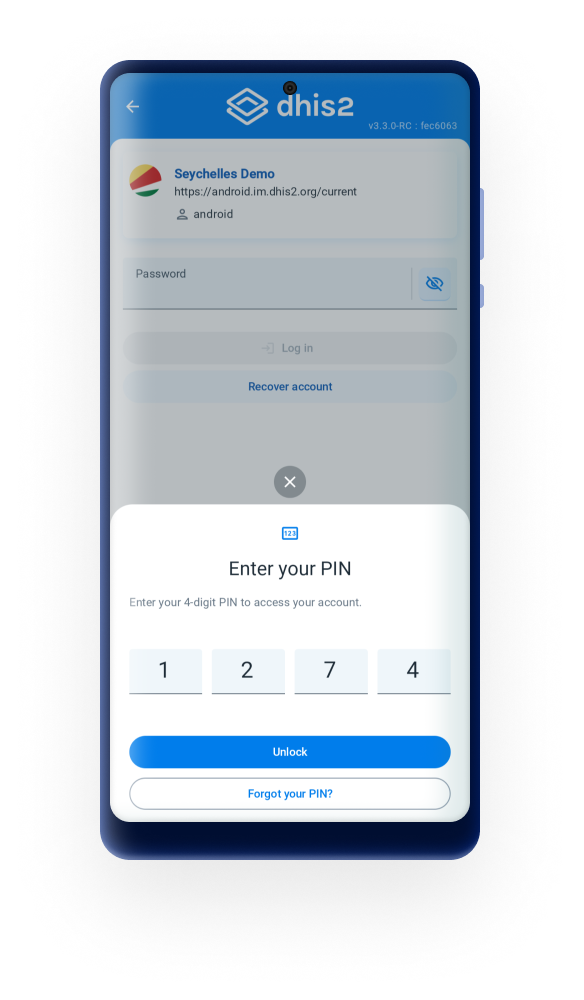
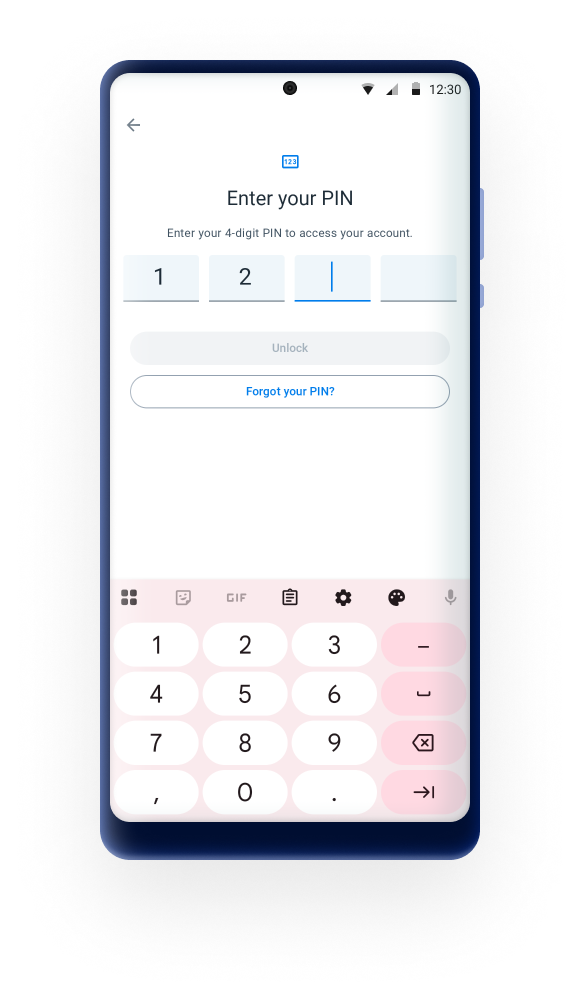
3.4 updates
- screenshots update
- sync confing new periods
- markdown section

diff --git a/content/capture-app/settings.md b/content/capture-app/settings.md
@@ -1,17 +1,24 @@
-# Settings (Improved 3.3.0) { #capture_app_settings }
+# Settings { #capture_app_settings }
 
 >In version 3.3.0 the settings menu was redesigned to provide a cleaner structure and improved navigation experience. This update aligns the screen with the design changes introduced in previous versions and prepares the menu to host future configuration options, such as 2FA-related settings.
 
 ![Settings window](resources/images/capture-app-image340.png){width=25%}
 
-Sync data
-:	User is able to choose from a drop-down list if the data entered in the app is uploaded to the server manually or scheduled every 15 min, 1 hour or 1 Day. By default the app will sync every 24h. This kind of Syncing includes new and updated events and TEI’s.
+## Sync data { #capture_app_settings_sync_data }
 
-Sync configuration (also known as sync metadata)
-:	User is able to choose from a drop-down list  if the data entered in the app is uploaded to the server manually or scheduled every day or week. By default the app will sync every 24h.  This sync will update changes in programs or configurations in web.
+Any user is able to choose from a drop-down list if the data entered in the app is uploaded to the server manually or scheduled every 15 min, 1 hour or 1 Day. By default the app will sync every 24h. This kind of Syncing includes new and updated events and TEI’s.
 
-Sync parameters
-: 	These parameters allow the user to specify the maximum number of TEI’s and events that can be stored in the local device. The user can also specify if limits apply per organisation unit or in total. Values can be set to default by clicking on “Reset to default”.
+## Sync configuration/metadata (Improved in 3.4) { #capture_app_settings_sync_metadata }
+
+Any User is able to choose from a drop-down list  if the data entered in the app is uploaded to the server manually or scheduled every day or week. By default the app will sync every 24h.  This sync will update changes in programs or configurations in web.
+
+From 3.4, in addition to existing intervals, automatic metadata sync can now run every 6 or 12 hours, allowing for more timely updates and better alignment with data sync behavior.
+
+![](resources/images/capture-app-image366.png){width=25%}
+
+## Sync parameters { #capture_app_settings_sync_parameters }
+
+These parameters allow the user to specify the maximum number of TEI’s and events that can be stored in the local device. The user can also specify if limits apply per organisation unit or in total. Values can be set to default by clicking on “Reset to default”.
 
 > **Note** 
 >
@@ -19,14 +26,17 @@ Sync parameters
 >
 >
 
-Reserved values
-:	This will specify the number of reserved Id's available in your device and will allow you to refill them.
+## Reserved values { #capture_app_settings_reserved_values }
 
-Open sync errors log
-:	The sync error log gives details about the error and is prepared to be shared with admins.
+This will specify the number of reserved Id's available in your device and will allow you to refill them.
 
-Export database
-:   Users are now be able to export the local database and share it with an admin, who will be able to import it for troubleshooting, being able to replicate the exact environment (database, device, configuration). The exported database is encrypted and the administrator will require the user credentials to be able to access the database
+## Open sync errors log { #capture_app_settings_errors_log }
+
+The sync error log gives details about the error and is prepared to be shared with admins.
+
+## Export database { #capture_app_settings_export_db }
+
+Users are able to export the local database and share it with an admin, who will be able to import it for troubleshooting, being able to replicate the exact environment (database, device, configuration). The exported database is encrypted and the administrator will require the user credentials to be able to access the database
 
 ![](resources/images/capture-app-image341.png){ width=25%}
 
@@ -34,7 +44,7 @@ The import button can be found by tapping on the tree dots menu at the login scr
 
 ![](resources/images/capture-app-image338.png){ width=25%}
 
-Delete local data
+## Delete local data { #capture_app_settings_delete_localdb }
 :	This action will delete local data without having to log out.
 
 > **Warning** 
@@ -43,7 +53,7 @@ Delete local data
 >
 >
 
-Reset app data & configuration
+## Reset app data & configuration { #capture_app_settings_sync_metadata }
 :	This action will log out the user and delete all data and metadata, this means user and server information is also deleted. It is similar to resetting the App.
 
 > **Warning** 
@@ -52,10 +62,12 @@ Reset app data & configuration
 >
 >
 
-SMS Settings
-:	This sections allows to check or edit the parameters related to the sms gateway.
+## SMS Settings { #capture_app_settings_sms }
 
-Software Update
-:	This feature enables implementation administrators to manage and control the version of the Android app from the DHIS2 user web interface, making it easier to manage app updates and ensure compatibility with the DHIS2 system. Managers will be able to upload the desired version and users will get a prompt message to update when they are not in the last updated version. The management of versions is made through a new Web App.
+This sections allows to check or edit the parameters related to the sms gateway. [More information here.](https://docs.dhis2.org/en/develop/developing-with-the-android-sdk/sms-module.html#android_sdk_sms_module)
+
+## Software Update { #capture_app_settings_software_update }
+
+This feature enables implementation administrators to manage and control the version of the Android app from the DHIS2 user web interface, making it easier to manage app updates and ensure compatibility with the DHIS2 system. Managers will be able to upload the desired version and users will get a prompt message to update when they are not in the last updated version. The management of versions is made through a new Web App.
 
 ![](resources/images/capture-app-image229.png){ width=25%}

diff --git a/content/capture-app/programs-features.md b/content/capture-app/programs-features.md
@@ -246,7 +246,7 @@ In 2.9, the working lists have been moved from the filters section to the main p
 
 ![](resources/images/capture-app-image251.png){ width=25%}
 
-#### Synchronization based on working lists (New 3.3.0) { #capture_app_programs_common_features_working_lists_sync }
+#### Synchronization based on working lists { #capture_app_programs_common_features_working_lists_sync }
 
 From version 3.3.0, the Android Capture App supports synchronization based on working lists defined in the Capture web app and assigned through the Android Settings Web App (ASWA). Working lists allow administrators to specify exactly which tracked entity instances (TEIs) or events should be downloaded to a device, ensuring focused, context specific data for each group of users.
 
@@ -274,6 +274,67 @@ The analytics tab supports displaying text and key/value pair in feedback or ind
 Legends can be assigned to Data Elements and they will be displayed next to value with the respective color and label.
 
 ![](resources/images/capture-app-image155.png){ width=25%}
+
+### Feedback rendering (New in 3.4) { #capture_app_programs_common_features_feedback_rendering }
+
+Feedback messages generated through Display Text and Display Key Value Pair program rule actions support Markdown formatting. This allows structured and more readable content to be displayed directly in the app, including headings, lists, tables, links, and emphasized text.
+
+In addition, legend-based styling enables feedback values to be visually highlighted using predefined legend sets. When numeric values are present in the content, they are evaluated against the configured legend ranges and rendered with the corresponding color. This allows dynamic color coding of key values, helping users quickly interpret results and identify important conditions.
+
+#### Supported Markdown formatting
+
+The following Markdown elements are supported in feedback content:
+
+- Paragraphs: plain text separated using `\n\n`
+- Headings: `#` to `######`
+- Bold text: `**bold text**`
+- Italic text: `*italic text*`
+- Unordered lists: prefix items with `-`
+- Ordered lists: prefix items with numbers (`1.`, `2.`, etc.)
+- Links: `[text](https://example.com)`
+- Images: `![alt text](https://example.com/image.jpg)` (public URLs only)
+- Tables: defined using pipe (`|`) notation
+
+**Spacing and line breaks**
+
+Spacing within feedback content must be explicitly defined using line break characters.
+
+- Use `\n\n` to create a new paragraph or visual separation between sections.
+- Single line breaks may not be preserved consistently.
+- Proper spacing is required for Markdown elements such as tables and lists to render correctly.
+
+> ***Example***
+
+
+The following example demonstrates how Markdown can be used within program rule actions to render structured feedback content, including formatted text and tables.
+
+```
+Action 1: Display text
+Static text: ## Weight per visit
+Expression:
+d2:concatenate(
+"\n\nFacility: ", V{orgunit_code},
+"\n\nDate of birth: ", V{incident_date}
+)
+```
+```
+Action 2: Display text
+Static text: ## Summary
+Expression:
+d2:concatenate(
+"\n\n|Visit|Weight|\n|---|---|\n|Birth|", #{weightbirth},
+"|\n|Second visit|", #{weight2}, "|"
+)
+```
+![](resources/images/capture-app-image367.png){ width=25%}
+
+>**Notes**
+>
+> - Table columns are rendered with equal width
+> - Tables can be scrolled horizontally if they exceed screen size
+> - All text is left-aligned by default
+> - Markdown support is limited to the elements listed above
+>
 
 ### Data Entry Form { #capture_app_programs_common_features_data_entry_form }
 
@@ -355,7 +416,7 @@ To prevent accidental deletions and enhance user control, a new confirmation dia
 ![](resources/images/capture-app-image307.png){ width=25%}
 ![](resources/images/capture-app-image306.png){ width=25%}
 
-### Custom Intents (New 3.3.0) { #capture_app_programs_common_features_customintents }
+### Custom Intents { #capture_app_programs_common_features_customintents }
 
 > This feature is available from Android Capture App version 3.3.0.
 

diff --git a/content/capture-app/android-specific-features.md b/content/capture-app/android-specific-features.md
@@ -1,6 +1,6 @@
 # Generic features { #capture_app_generic }
 
-## Login (Improved 3.3.0) { #capture_app_generic_login }
+## Login { #capture_app_generic_login }
 
 In version 3.3.0 the login screen was redesigned with a modern interface and improved usability in order to support future OAuth-based two-factor authentication (2FA), ensuring the app is ready for upcoming security improvements.
 
@@ -36,7 +36,7 @@ After a succesful login the user should be able to perform an *offline* login on
 >
 > Due to a change in the login API this feature is not available from 2.31.
 
-## Offline Multi-user (Improved 3.3.0) { #capture_app_generic_multiuser}
+## Offline Multi-user { #capture_app_generic_multiuser}
 
 The Manage Accounts screen has been redesigned to align with the updated login experience introduced in version 3.3.0. Saved accounts now appear as clearer, more structured cards that display key information retrieved from each DHIS2 instance. Each card now includes:
 
@@ -64,19 +64,18 @@ The users will be able to restore their own password if they have the setting en
 
 ![](resources/images/capture-app-image64.png){ width=25%}
 
-## Blocking session (PIN) (Improved 3.3.0) { #capture_app_generic_PIN }
+## Blocking session (PIN) (Improved 3.4.0) { #capture_app_generic_PIN }
 
 User is able to lock the session using a 4 digit PIN. This allows to move to other apps in your phone without deleting the local data.
-If the user forgets the PIN number, log in by entering the credentials is also available.
 
 ![](resources/images/capture-app-image343.png){width=25%}
-![](resources/images/capture-app-image344.png){width=25%}
 
+If the user forgets the PIN number, log in by entering the credentials is also available.
 After 3 invalid attempts, the app will ask the user to login using the password.
 
-![](resources/images/capture-app-image345.png){width=25%}
+![](resources/images/capture-app-image344.png){width=25%}
 
-## Biometrics login (Improved 3.3.0)  { #capture_app_generic_biometrics_login }
+## Biometrics login  { #capture_app_generic_biometrics_login }
 
 User is able to use the fingerprint scanner or face id if the feature is activated in the device. This will only be available if there is only one account (not supported for multple accounts)
 
@@ -453,6 +452,10 @@ The new module for real stock monitoring use case enables users to manage and mo
 ![](resources/images/capture-app-image222.png){ width=25%}
 ![](resources/images/capture-app-image223.png){ width=25%}
 
-### Event upload behavior (Improved in 3.3.0) { #capture_app_lmis_module_sync }
+### Event upload behavior { #capture_app_lmis_module_sync }
 
 The Android app will upload events with status COMPLETED by default. If the program configuration prevents the event from being completed on the server (for example, due to mandatory data elements or “error on complete” program rules), the app will upload the event with status ACTIVE instead. This prevents failed uploads caused by server side misconfiguration while still ensuring that data is sent.
+
+### Event ordering alignment across platforms (Improved in 3.4.0) { #capture_app_lmis_module_event_ordering }
+
+With this update, event ordering has been aligned across Web, Android, and API sources. This ensures that events are processed in the correct sequence during synchronization, improving data consistency and calculation reliability across the system.

diff --git a/content/capture-app/value-types-supported.md b/content/capture-app/value-types-supported.md
@@ -30,7 +30,7 @@ Any issues around using a particular feature with Android are highlighted with a
 | Percentage | Any decimal value between 0 and 100 | ![](/en/resources/images/admin/icon-complete.png) | ![](/en/resources/images/admin/icon-complete.png) | ![](/en/resources/images/admin/icon-complete.png) | ![](/en/resources/images/admin/icon-complete.png)| |
 | Unit interval | Any decimal value between 0 and 1 | ![](/en/resources/images/admin/icon-complete.png) | ![](/en/resources/images/admin/icon-complete.png) | ![](/en/resources/images/admin/icon-complete.png) |![](/en/resources/images/admin/icon-complete.png) | |
 | Text | Text (length of text up to 50,000 characters) | ![](/en/resources/images/admin/icon-complete.png) | ![](/en/resources/images/admin/icon-complete.png) | ![](/en/resources/images/admin/icon-complete.png) |![](/en/resources/images/admin/icon-complete.png) | |
-| Multi_Text (New in 3.0) | Option set for multiple choice | ![](/en/resources/images/admin/icon-complete.png) | ![](/en/resources/images/admin/icon-complete.png) | ![](/en/resources/images/admin/icon-complete.png) |![](/en/resources/images/admin/icon-incomplete.png) | |
+| Multi_Text (From 3.0) | Option set for multiple choice | ![](/en/resources/images/admin/icon-complete.png) | ![](/en/resources/images/admin/icon-complete.png) | ![](/en/resources/images/admin/icon-complete.png) |![](/en/resources/images/admin/icon-incomplete.png) | |
 | Long text | Text (no constraints on length) | ![](/en/resources/images/admin/icon-complete.png) | ![](/en/resources/images/admin/icon-complete.png) | ![](/en/resources/images/admin/icon-complete.png) |![](/en/resources/images/admin/icon-complete.png) | |
 | Letter | A single letter | ![](/en/resources/images/admin/icon-complete.png) | ![](/en/resources/images/admin/icon-complete.png) | ![](/en/resources/images/admin/icon-complete.png) | ![](/en/resources/images/admin/icon-complete.png)| |
 | File | Enables upload of files in various formats (requires appropriate storage to be configured) | ![](/en/resources/images/admin/icon-complete.png) | ![](/en/resources/images/admin/icon-complete.png) | ![](/en/resources/images/admin/icon-complete.png) | ![](/en/resources/images/admin/icon-incomplete.png) | |

diff --git a/content/capture-app/app-android-settings-configuration.md b/content/capture-app/app-android-settings-configuration.md
@@ -198,7 +198,7 @@ Resulting in 700 events downloaded overall.
 
 ---
 
-#### Specific settings (Improved 3.3.0) { #capture_app_android_settings_webapp_synchronization_program_specific }
+#### Specific settings { #capture_app_android_settings_webapp_synchronization_program_specific }
 
 Program specific settings allow administrators to override the global synchronization rules for selected programs. This is useful when different programs require different limits or filtering criteria.
 
@@ -219,7 +219,7 @@ Program specific settings differ depending on whether the program has registrati
 Parameters may include:
 
 * Setting level – Defines whether synchronization applies to all Org Units or specific Org Units.
-* Download events based on predefined list views (NEW in 3.3.0)
+* Download events based on predefined list views (available from 3.3.0)
 * Maximum event downloads
 * Download events with event date within (configurable time range)
 
@@ -230,11 +230,11 @@ Parameters may include:
 * Setting level
 * Maximum TEI downloads per program
 * Download TEIs updated within
-* Download TEIs based on predefined list views (NEW in 3.3.0)
+* Download TEIs based on predefined list views (available from 3.3.0)
 * Download TEI with status
 * Download TEIs with enrollment date within
 
-**Download based on List views (NEW in 3.3.0)**
+**Download based on List views**
 
 When a program is linked to one or more working lists, the corresponding filtering fields will behave as follows:
 
@@ -818,7 +818,7 @@ In the same way, Event visualizations are considered valid if:
 > ![](resources/images/capture-app-analytics-visualization-search.png)
 >
 
-## Custom Intents (New 3.3.0) { #capture_app_android_settings_webapp_custom_intents }
+## Custom Intents { #capture_app_android_settings_webapp_custom_intents }
 
 By configuring custom intents, administrators can enable the Android app to launch external applications, send data to them, and receive data back to populate fields automatically.
 
